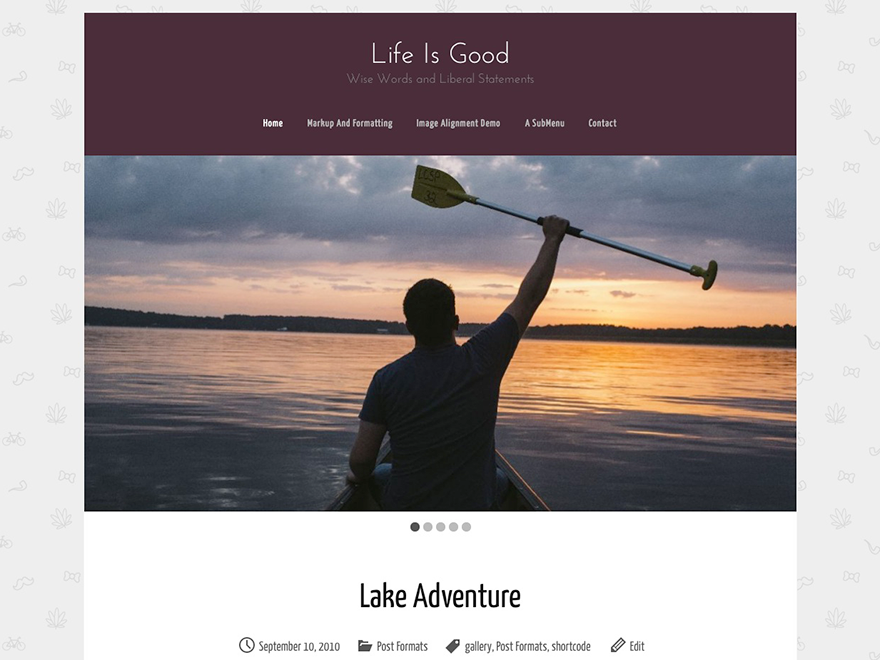
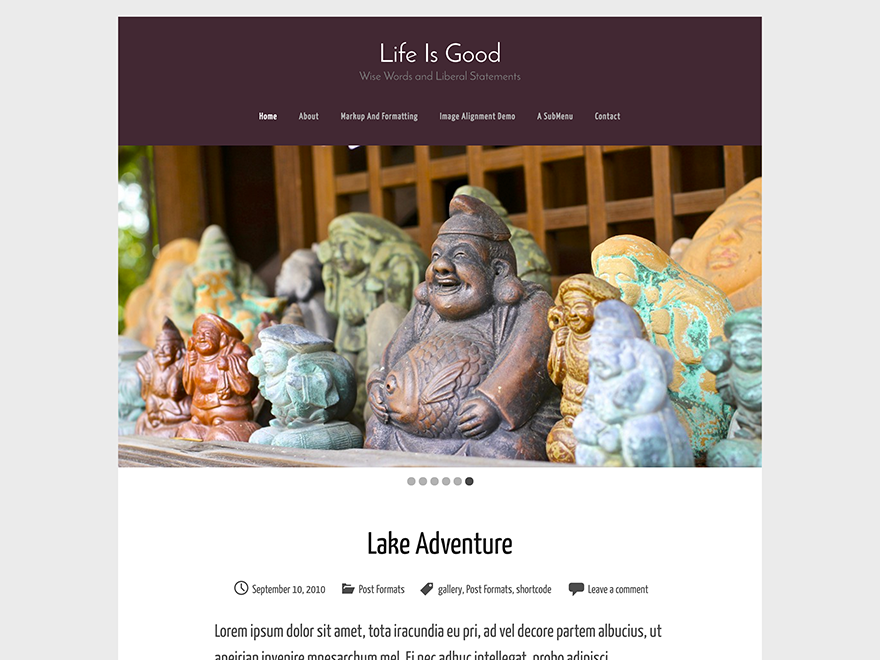
Fixed GPL Compatibility issues for .org approval
https://themes.trac.wordpress.org/ticket/20166#comment:40

diff --git a/style.css b/style.css
@@ -1,10 +1,10 @@
 /*
 Theme Name: Life Is Good
-Theme URI: http://lifeisgood.daniel-klose.com
+Theme URI: http://www.daniel-klose.com/online-services/life-is-good-wordpress-theme/
 Author: Daniel Klose
 Author URI: http://www.daniel-klose.com/
 Description: Life Is Good is a sleek personal blog theme based on the awesome TwentyThirteen theme from WordPress and its modification McKinley by ThemeTrust.
-Version: 1.0.3
+Version: 1.0.5
 License: GNU General Public License v2 or later
 License URI: http://www.gnu.org/licenses/gpl-2.0.html
 Tags: one-column, fluid-layout, custom-menu, editor-style, featured-images, microformats, post-formats, rtl-language-support, sticky-post, translation-ready
@@ -17,12 +17,9 @@ Responsiveness helped along by Flexslider from WooThemes: https://github.com/woo
 And FitVids by Chirs Coyier and Paravel: http://fitvidsjs.com/ licensed under the WTFPL license - http://sam.zoy.org/wtfpl/.
 
 Fonts used:
-Genericons http://genericons.com/ licensed under GPLv2 - http://www.gnu.org/licenses/gpl-2.0.html.
-Yanone Kaffeesatz http://www.google.com/fonts/specimen/Yanone+Kaffeesatz licensed under the SIL Open Font License, 1.1 - http://scripts.sil.org/cms/scripts/page.php?site_id=nrsi&id=OFL.
-Josefin Sans http://www.google.com/fonts/specimen/Josefin+Sans licensed under the SIL Open Font License, 1.1 - http://scripts.sil.org/cms/scripts/page.php?site_id=nrsi&id=OFL.
-
-Backgrounds:
-Sativa http://subtlepatterns.com/sativa/ by Luca Errico http://www.helloluke.com/ licensed under Creative Commons CC BY-SA 3.0
+Genericons http://genericons.com/ licensed under GPLv2 - http://www.gnu.org/licenses/gpl-2.0.html. Copyright 2014 by Automattic, Inc.
+Yanone Kaffeesatz http://www.google.com/fonts/specimen/Yanone+Kaffeesatz licensed under the SIL Open Font License, 1.1 - http://scripts.sil.org/cms/scripts/page.php?site_id=nrsi&id=OFL. Copyright 2014 by Yanone.
+Josefin Sans http://www.google.com/fonts/specimen/Josefin+Sans licensed under the SIL Open Font License, 1.1 - http://scripts.sil.org/cms/scripts/page.php?site_id=nrsi&id=OFL. Copyright (c) 2010 by Typemade (hi@typemade.mx). All rights reserved.
 
 Images:
 All images used are licensed under Creative Commons Zero http://creativecommons.org/publicdomain/zero/1.0/
@@ -127,7 +124,6 @@ body {
 	color: #4D4D4D;
 	line-height: 1.5;
 	margin: 0;
-	/* now part of the customizer background-image:url('images/sativa.png'); */
 	padding: 30px 0 30px;
 	font-family: "Yanone Kaffeesatz", Helvetica, Arial, sans-serif;
 	-webkit-font-smoothing: antialiased;

diff --git a/functions.php b/functions.php
@@ -513,7 +513,6 @@ add_action( 'customize_register', 'lifeisgood_customize_register' );
 
 $backargs = array(
 	'default-color' => 'EBEBEB',
-	'default-image' => '%1$s/images/sativa.png',
 );
 add_theme_support( 'custom-background', $backargs );
 

diff --git a/readme.md b/readme.md
@@ -1,7 +1,7 @@
 Life Is Good
 ============
 **Theme Name:** Life Is Good
-**Theme URI:** http://lifeisgood.daniel-klose.com
+**Theme URI:** http://www.daniel-klose.com/online-services/life-is-good-wordpress-theme/
 **Author:** Daniel Klose
 **Author URI:** http://www.daniel-klose.com/
 
@@ -21,7 +21,7 @@ http://lifeisgood.daniel-klose.com
 
 Version:
 --------
-**1.0.3**
+**1.0.5**
 
 Licensing:
 ----------
@@ -40,11 +40,8 @@ And FitVids by Chirs Coyier and Paravel: http://fitvidsjs.com/ licensed under th
 * Yanone Kaffeesatz http://www.google.com/fonts/specimen/Yanone+Kaffeesatz licensed under the SIL Open Font License, 1.1 - http://scripts.sil.org/cms/scripts/page.php?site_id=nrsi&id=OFL.
 * Josefin Sans http://www.google.com/fonts/specimen/Josefin+Sans licensed under the SIL Open Font License, 1.1 - http://scripts.sil.org/cms/scripts/page.php?site_id=nrsi&id=OFL.
 
-**Backgrounds**
-* Sativa http://subtlepatterns.com/sativa/ by Luca Errico http://www.helloluke.com/ licensed under Creative Commons CC BY-SA 3.0
-
 **Images**
 * All images used are licensed under Creative Commons Zero http://creativecommons.org/publicdomain/zero/1.0/
 
 created:  2014 Aug 09
-modified: 2014 Sep 23
+modified: 2014 Oct 16
